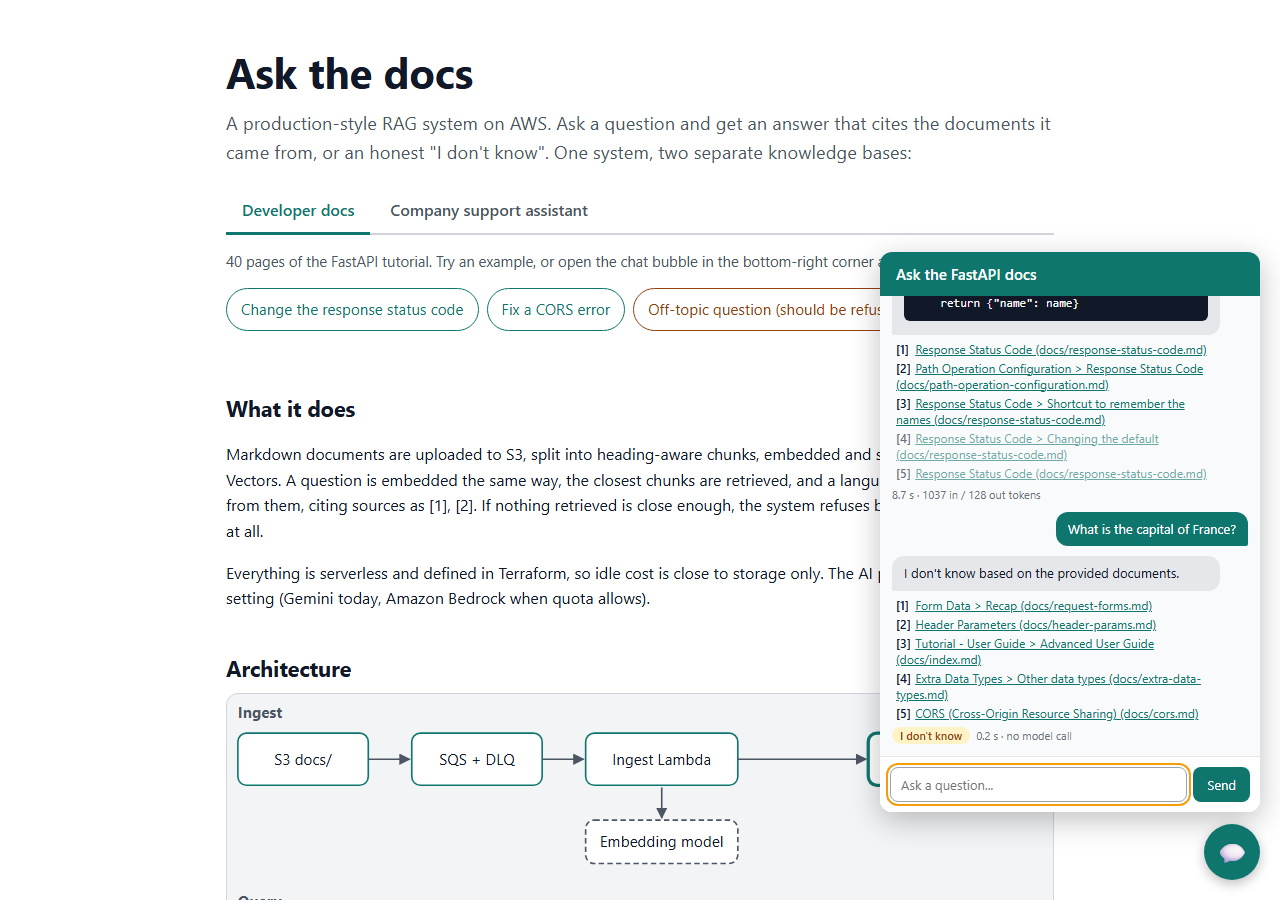
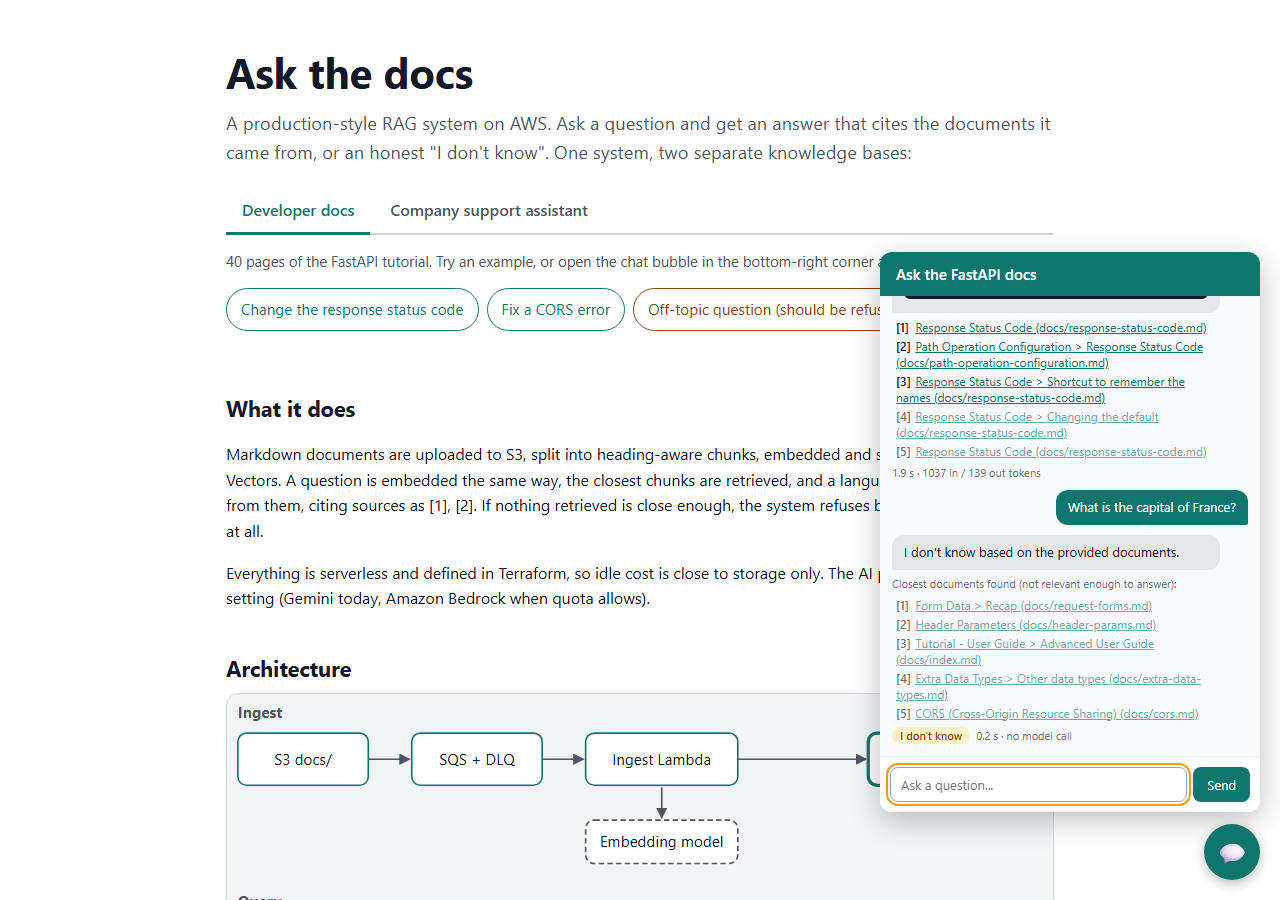
M6 (final): README screenshots from the live site, browser test scrolls answers into view

Changed region(s): [[0.6875, 0.3111, 1.0, 0.8089]]

diff --git a/scripts/demo_browser_test.py b/scripts/demo_browser_test.py
@@ -33,6 +33,11 @@ def ask(page: Page, question: str) -> object:
     return page.locator(".card").nth(cards_before)
 
 
+def show_start(card) -> None:
+    """Scroll the chat so the top of this answer shows (long answers otherwise show the end)."""
+    card.evaluate("el => { el.parentElement.scrollTop = el.offsetTop - 8; }")
+
+
 def check(condition: bool, message: str, failures: list[str]) -> None:
     print(("  ok   " if condition else "  FAIL ") + message)
     if not condition:
@@ -99,6 +104,7 @@ def main() -> int:
         check(
             "s" in meta and "tokens" in meta, f"latency/token badge is shown ({meta!r})", failures
         )
+        show_start(card)
         page.screenshot(path=str(args.out / "demo-answer.png"))
 
         refusal = ask(page, OFF_TOPIC)
@@ -112,6 +118,7 @@ def main() -> int:
             "refusal text is shown",
             failures,
         )
+        show_start(refusal)
         page.screenshot(path=str(args.out / "demo-refusal.png"))
 
         print("company support tab")
@@ -137,6 +144,7 @@ def main() -> int:
             f"business source links to GitHub ({link})",
             failures,
         )
+        show_start(card)
         page.screenshot(path=str(args.out / "demo-business.png"))
 
         print("mobile layout")
